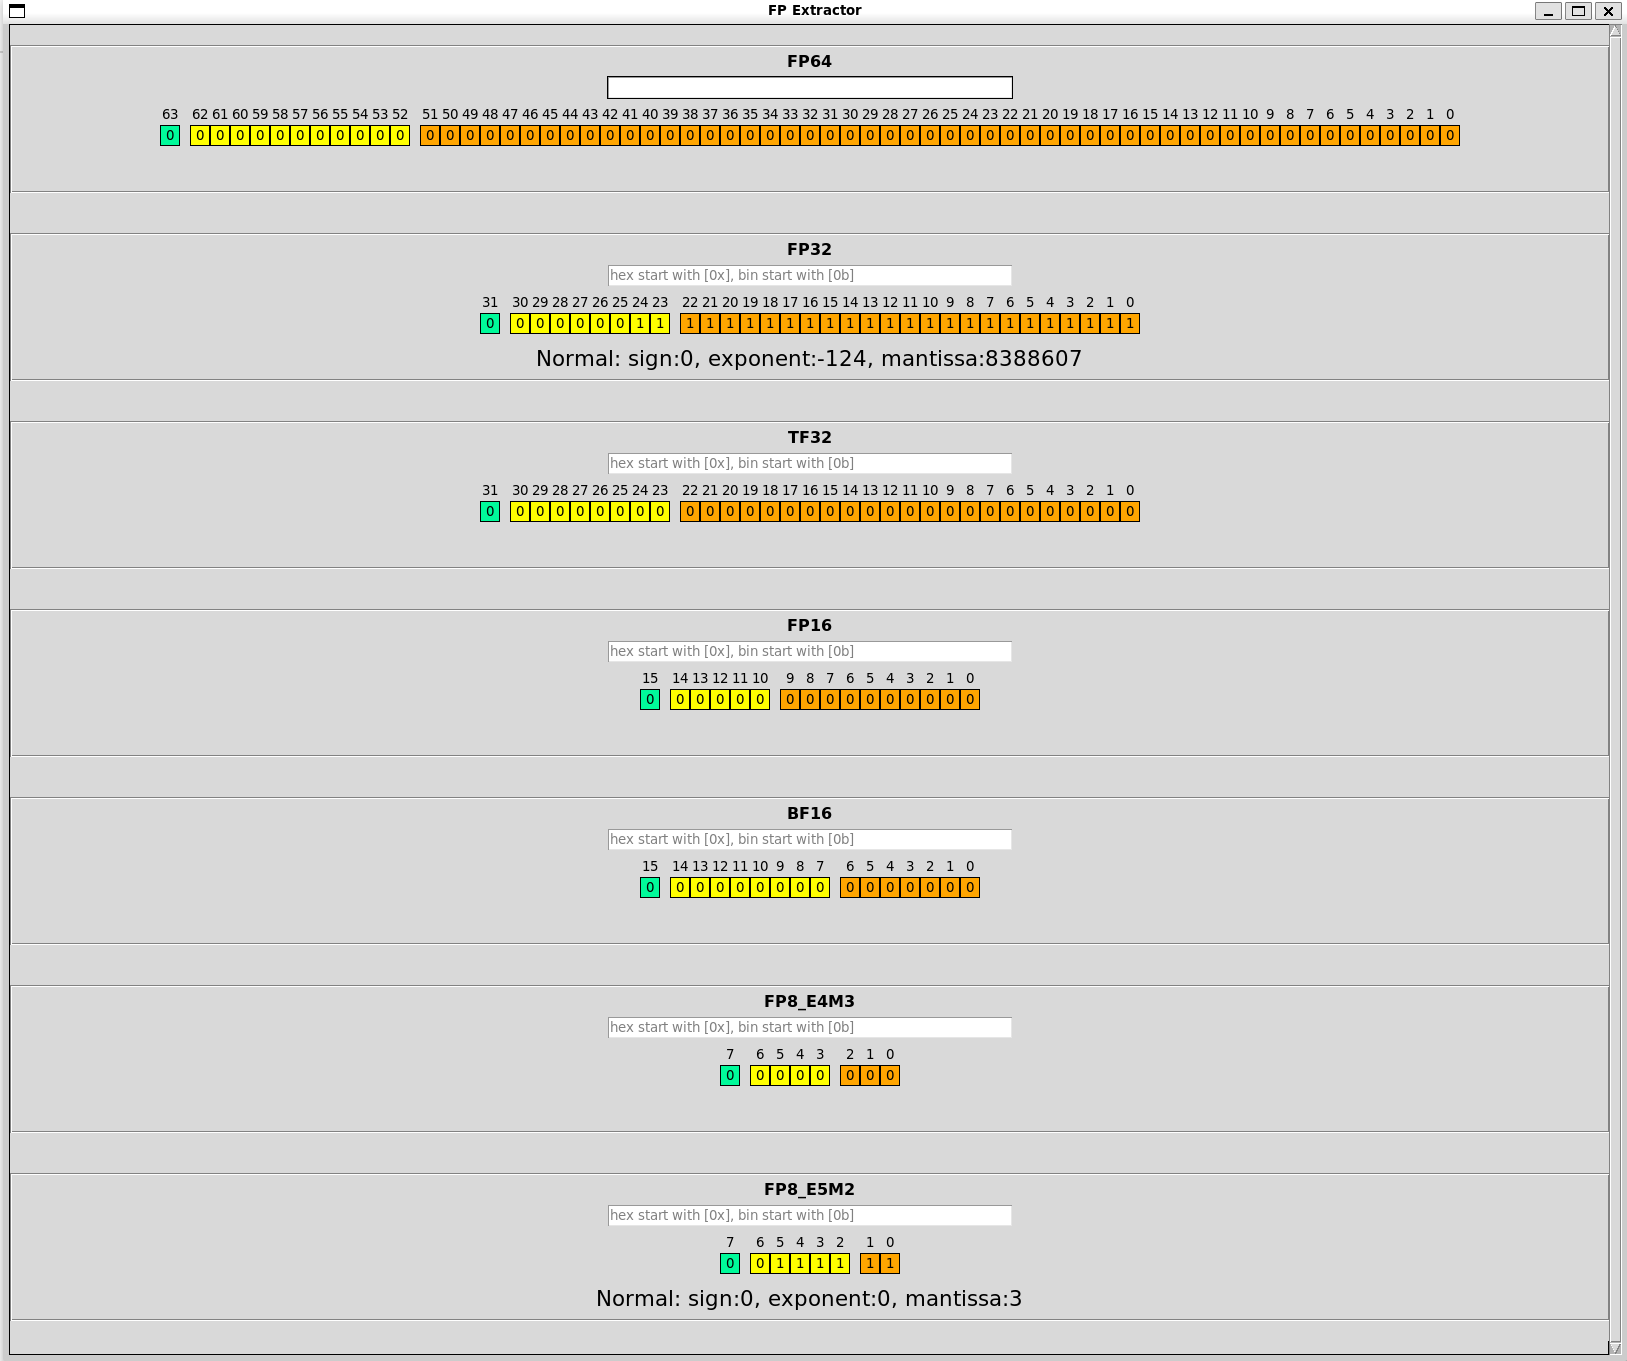
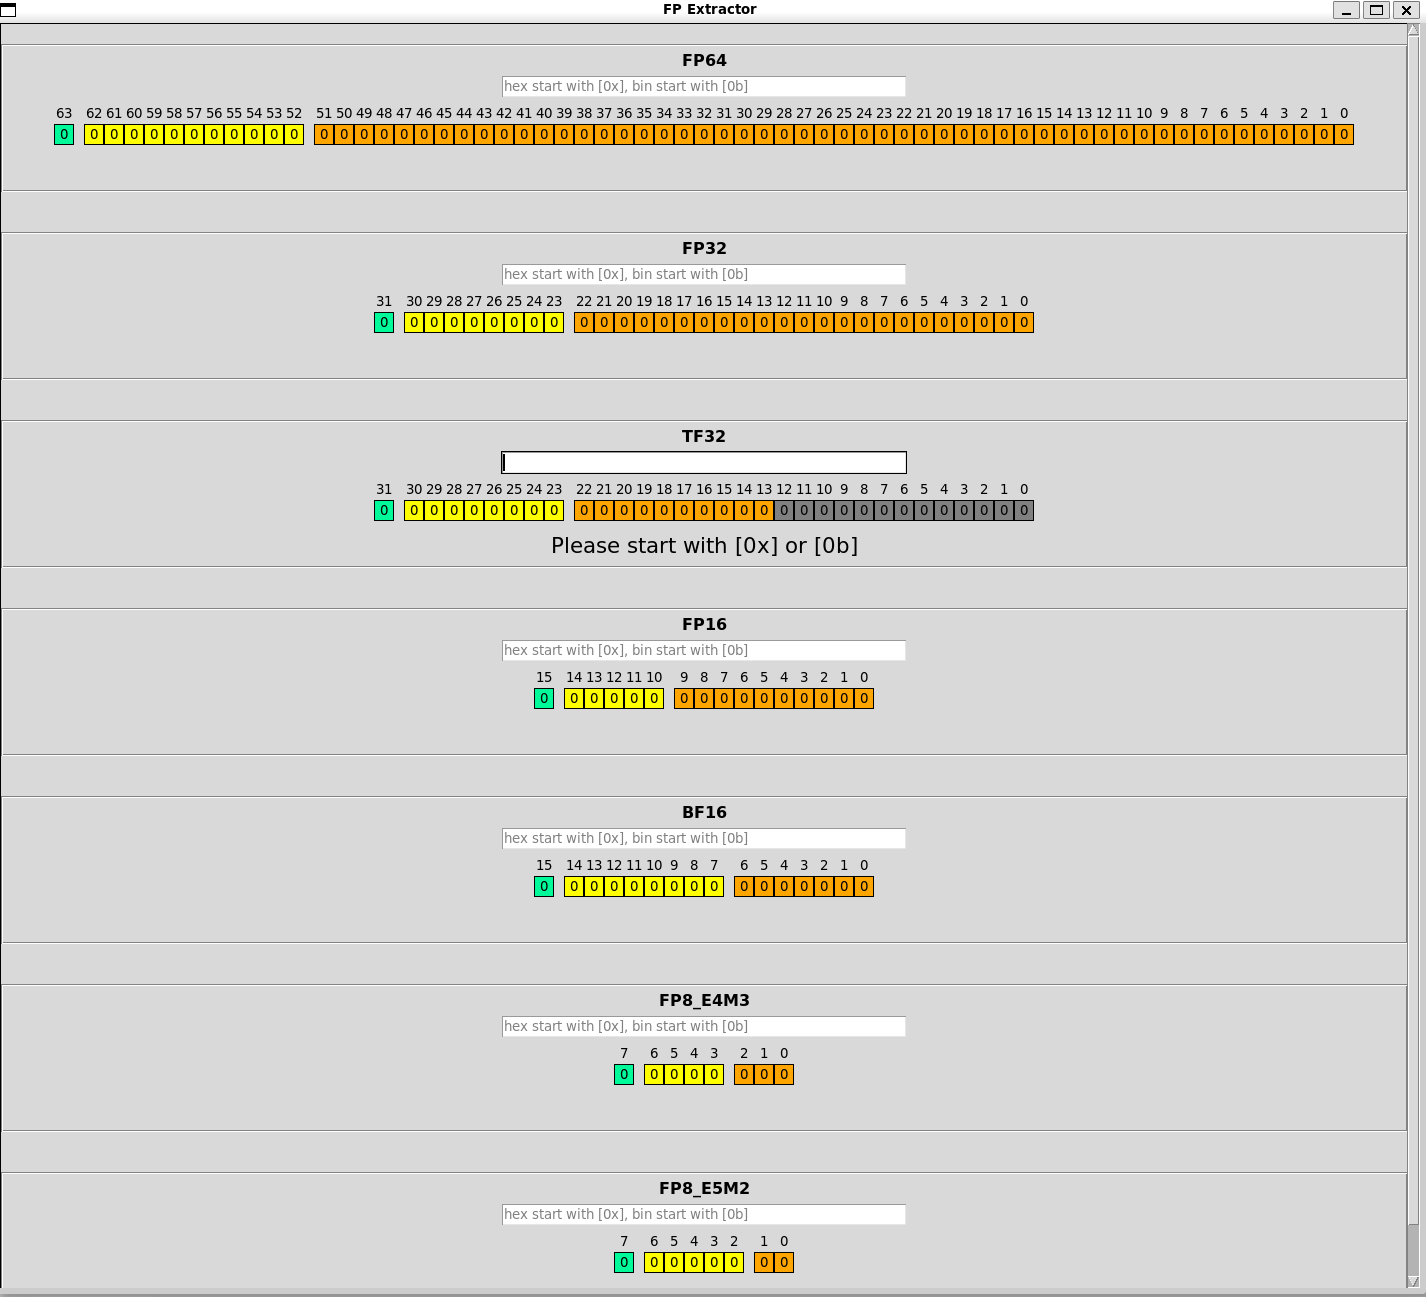
增加无效尾数的显示

Changed region(s): [[0.0, 0.0, 1.0, 1.0], [0.2468, 0.3084, 0.7405, 0.5551], [0.2468, 0.1542, 0.7405, 0.2776]]

diff --git a/fp_extractor.py b/fp_extractor.py
@@ -357,7 +357,10 @@ class GUI(tk.Tk):
                 bg = "yellow"
             else:
                 parent_frame = mantissa_frame
-                bg = "#FFA500"
+                if i < width - fp_fmt.mantissa[1]:
+                    bg = "#FFA500"
+                else:
+                    bg = "grey"
 
             pos_frame = tk.Frame(parent_frame)
             pos_frame.pack(side="left", fill="y")
